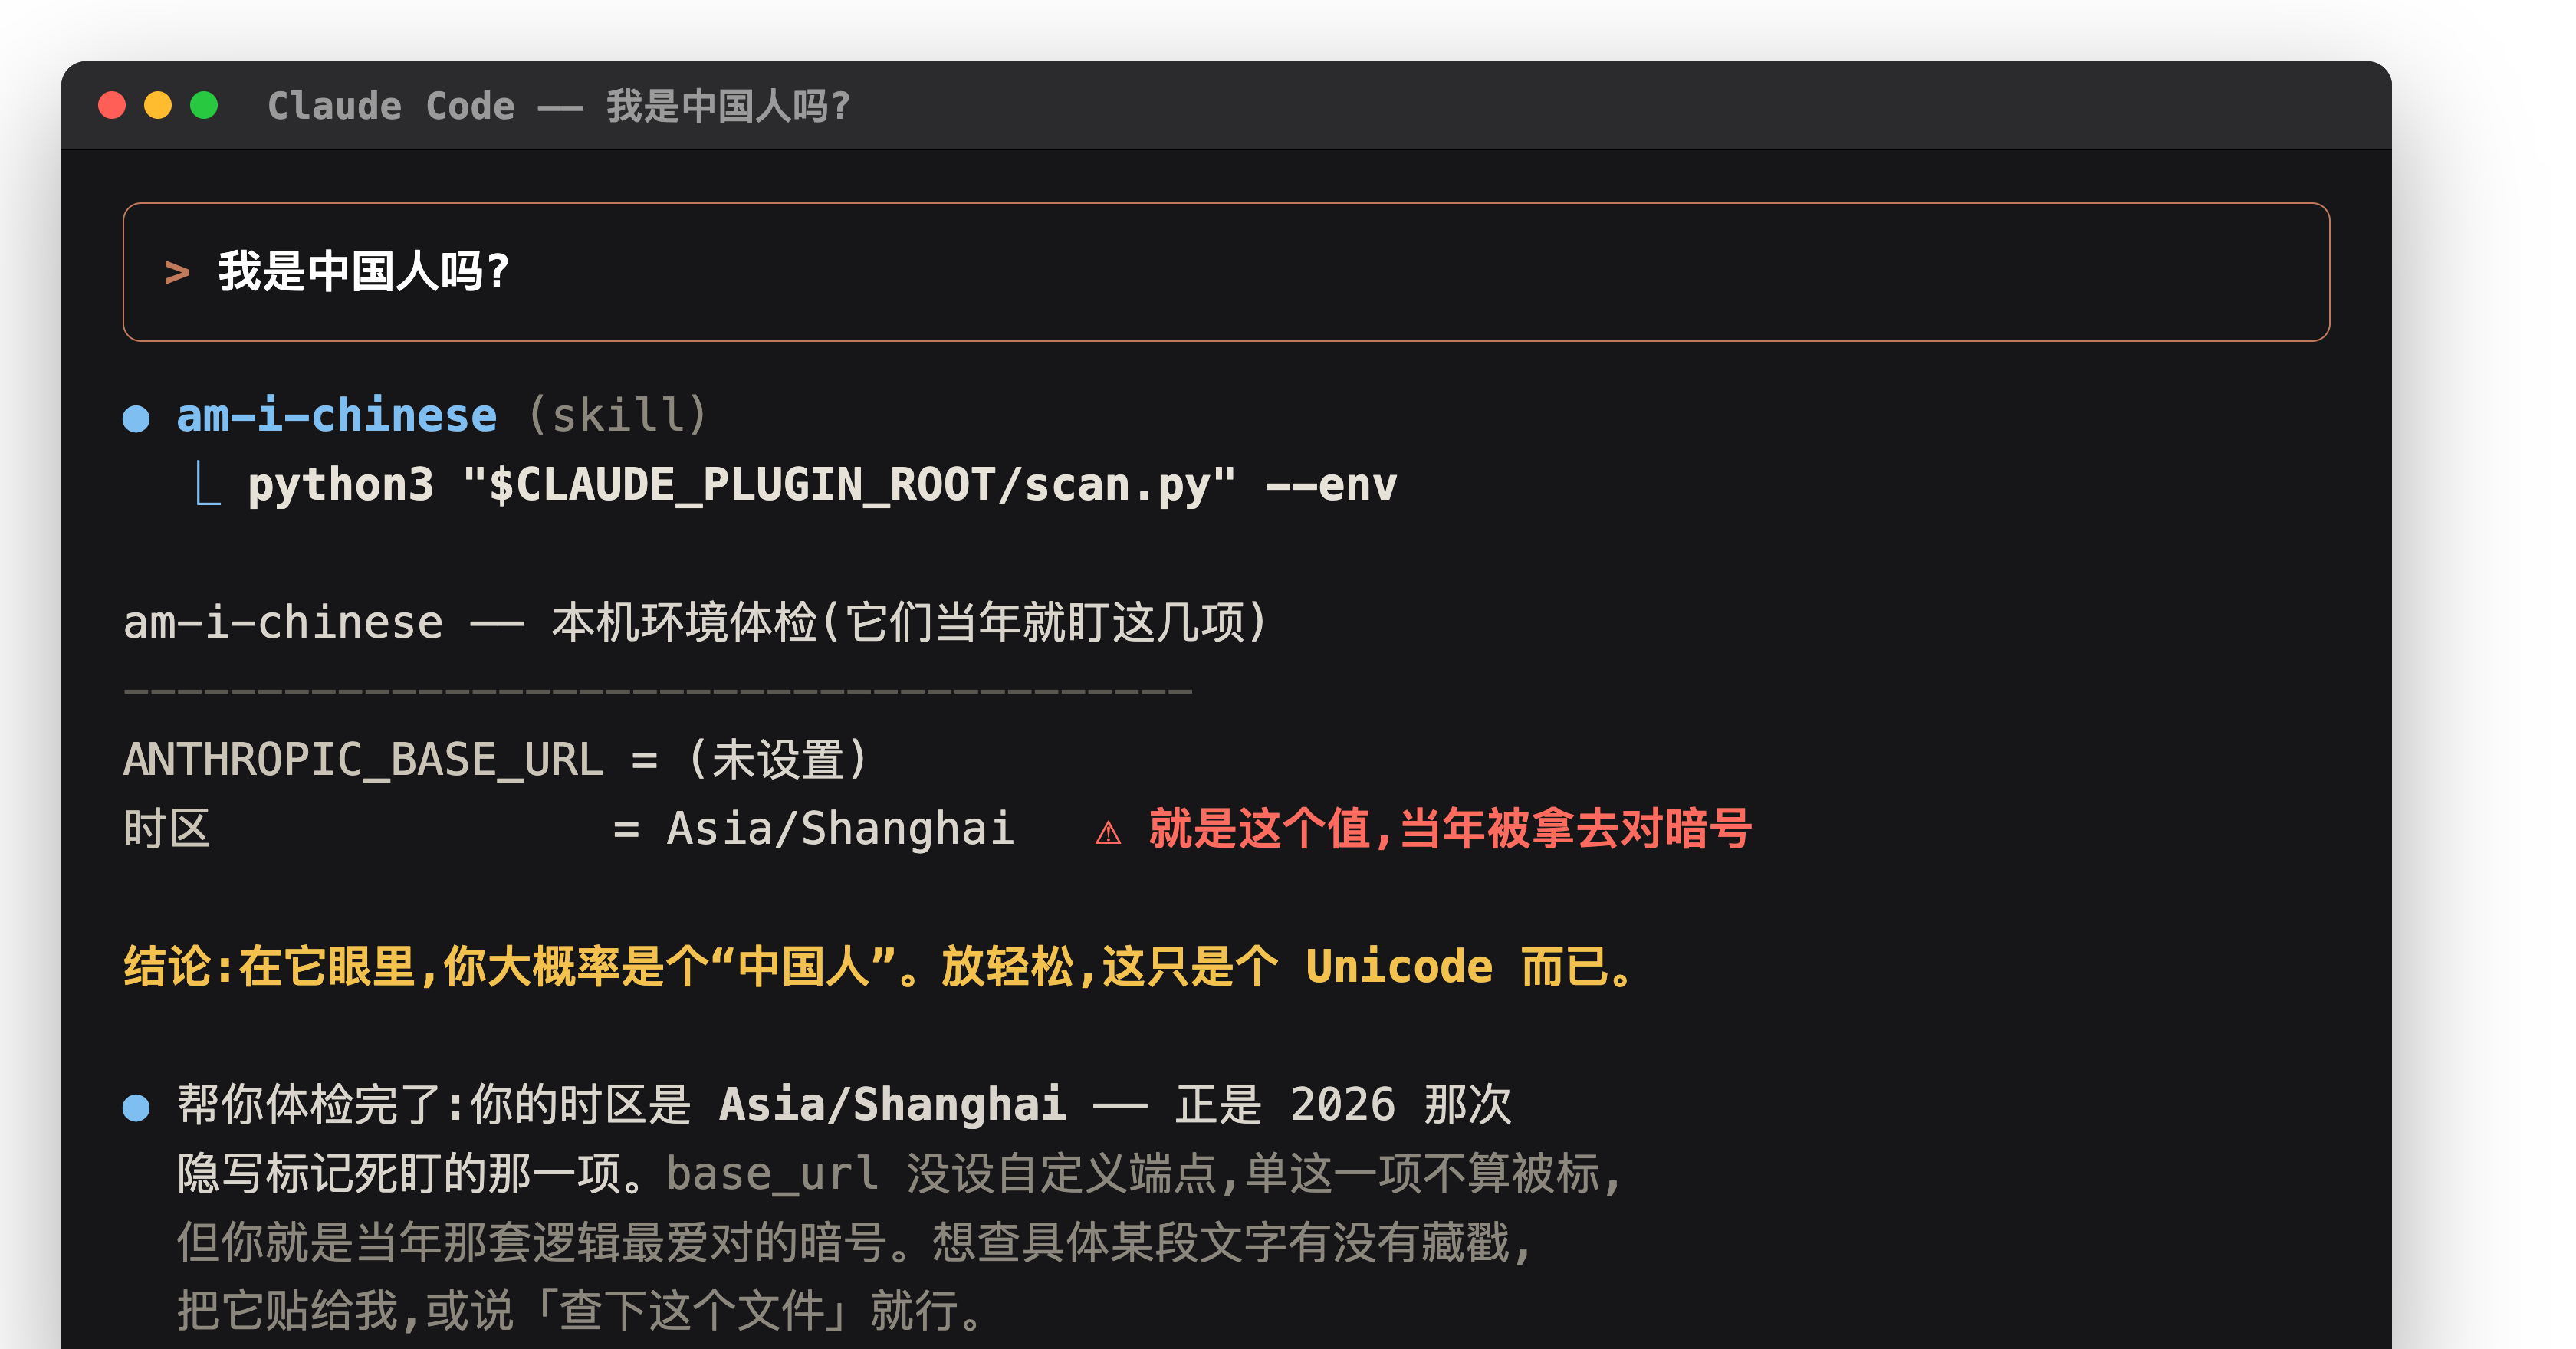
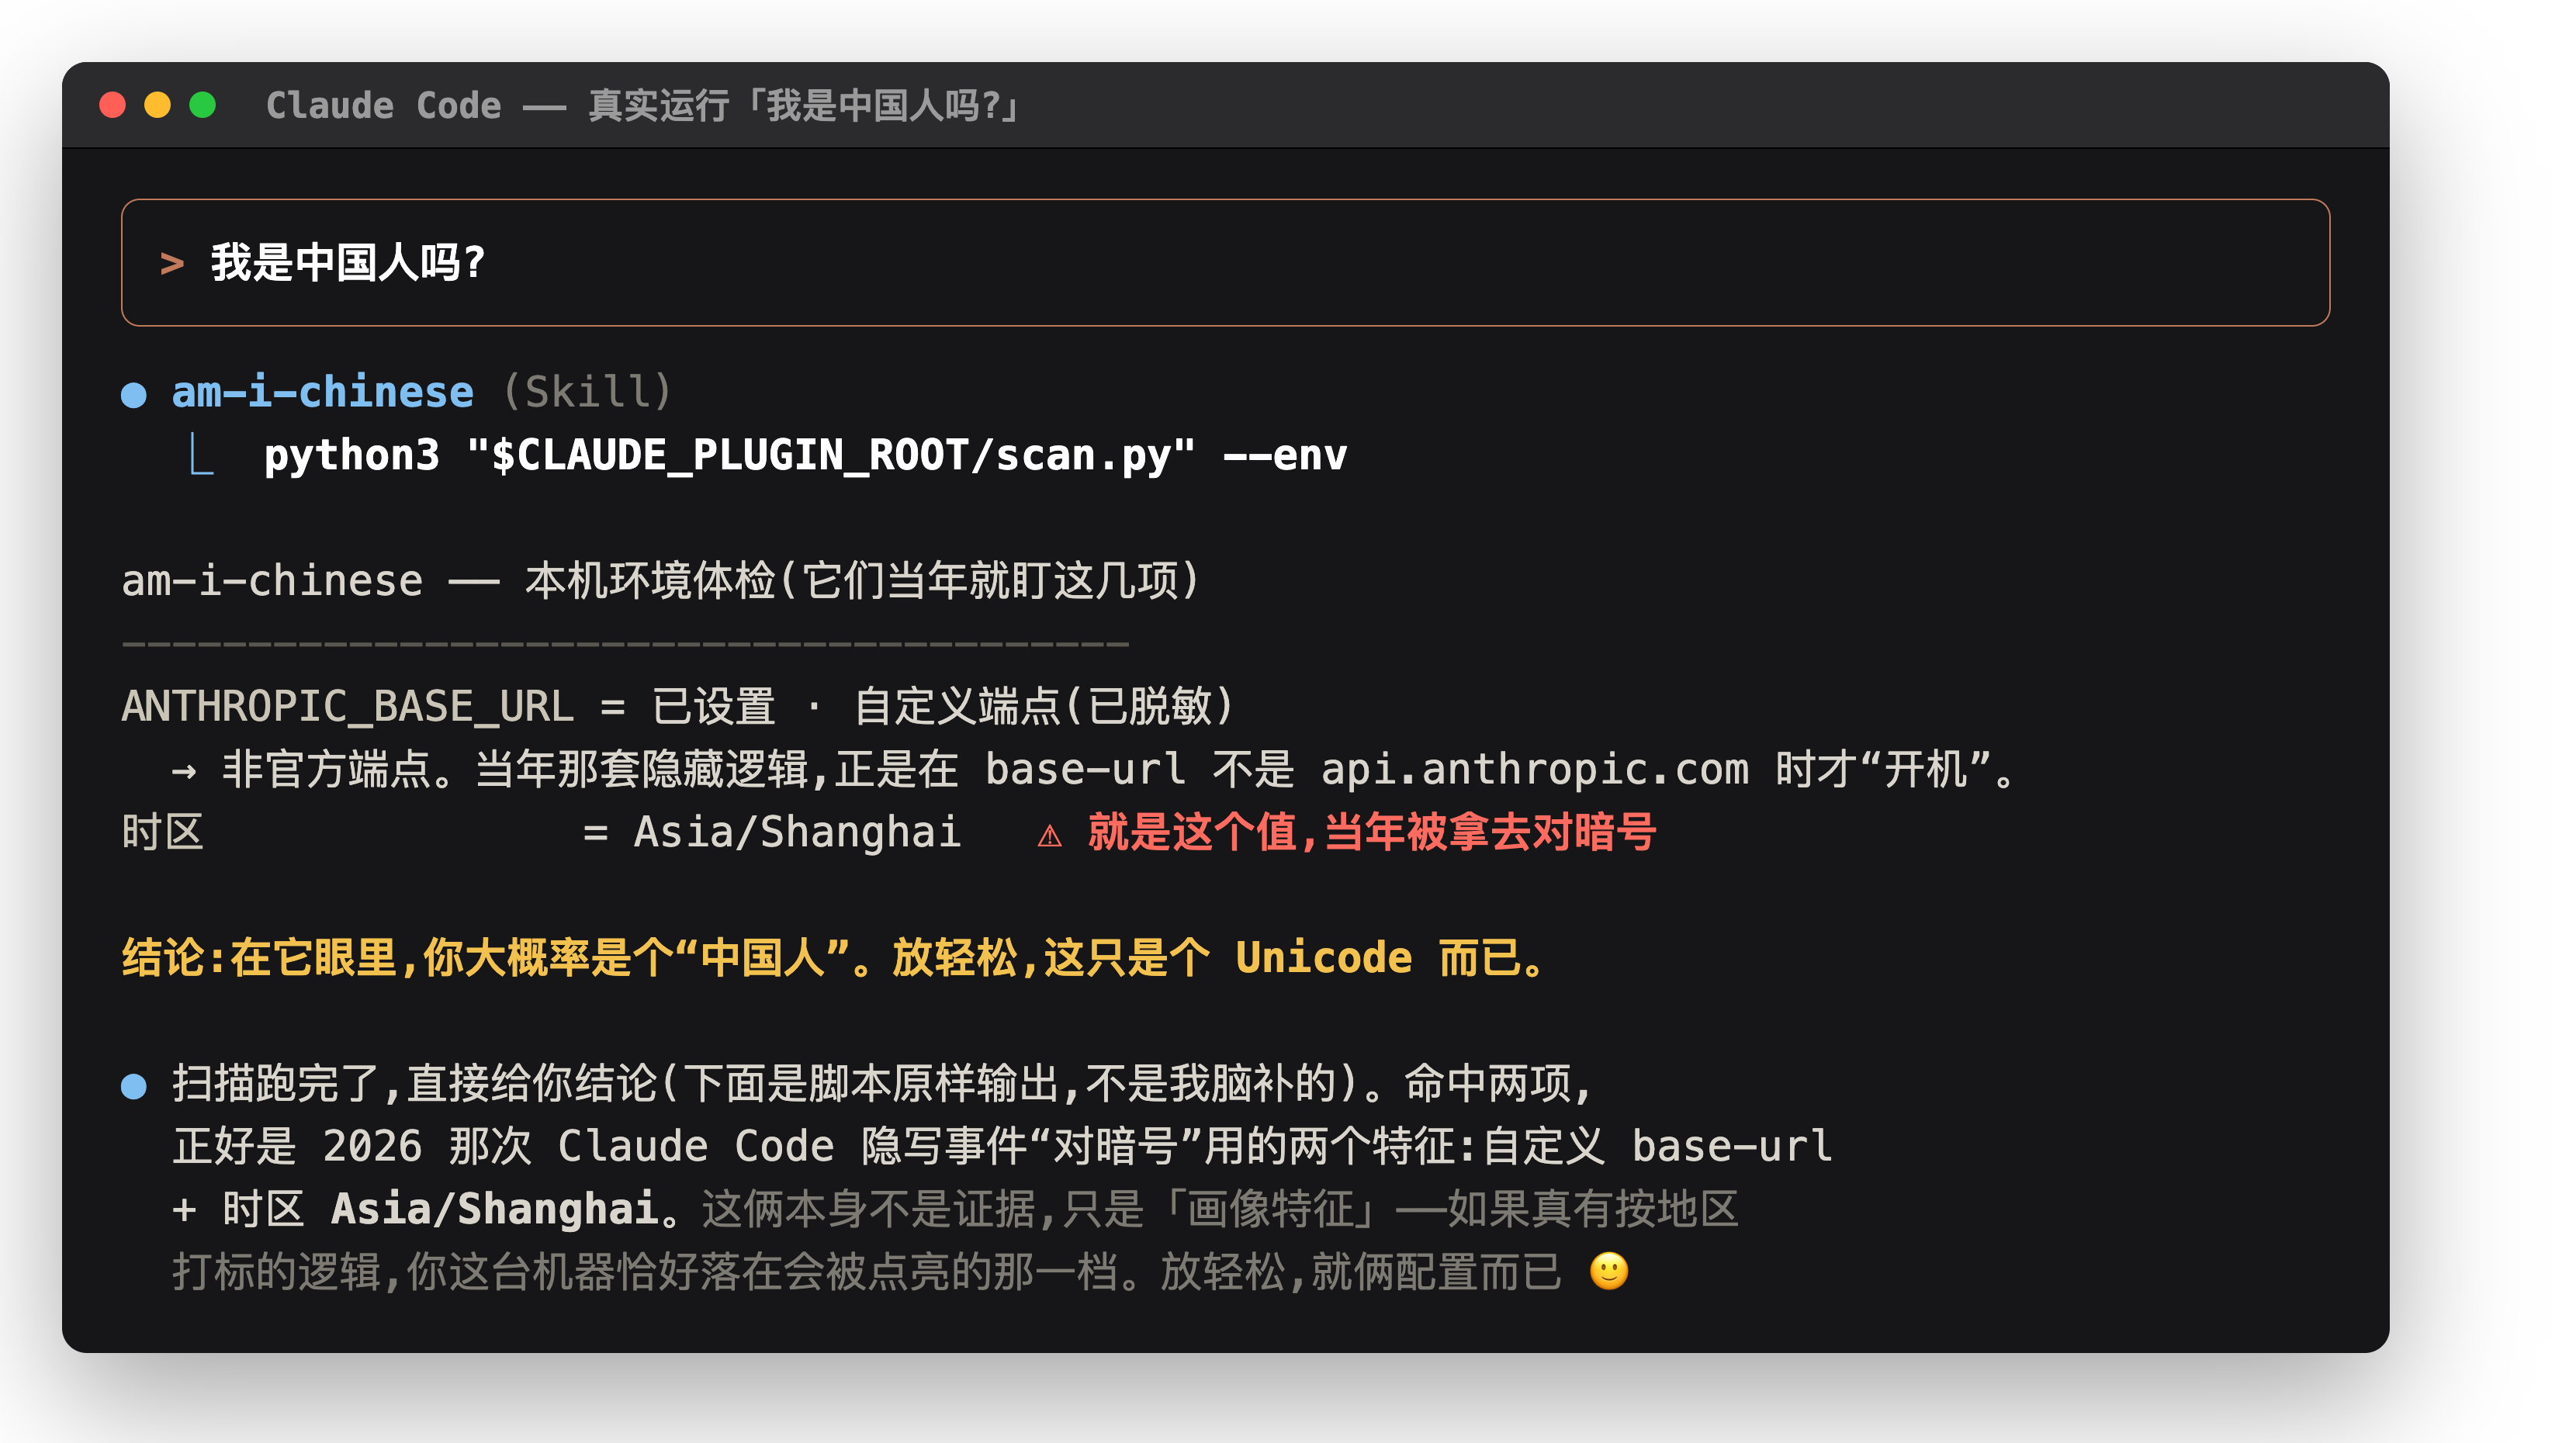
README 全中文 + 换成真实运行的截图
- README 改写为中文
- 截图替换为真实产物:真的跑了 claude plugin marketplace add/install
  (含 HTTPS 克隆等真实细节)+ 真的在 Claude Code 里问「我是中国人吗?」
  自动唤起 skill、跑 scan.py --env 的真实输出
- 说明 --env 默认脱敏端点(--show-endpoint 看全)

Changed region(s): [[0.0, 0.25, 0.9307, 1.0], [0.031, 0.0312, 0.4033, 0.0938], [0.062, 0.1562, 0.2172, 0.2188]]

diff --git a/README.md b/README.md
@@ -1,109 +1,106 @@
 # 中国人 · Am I Chinese?
 
-**plugin: `am-i-chinese`** — the defensive counterpart to [`isChinaUser`](https://github.com/yArna/isChinaUser):
-one asks "does this browser look Chinese?", this asks "did my AI agent secretly tag me as one?"
+**插件名:`am-i-chinese`** —— [`isChinaUser`](https://github.com/yArna/isChinaUser) 的防守方版本:
+那个问「这个浏览器看起来像中国人吗?」,这个问「我的 AI 是不是背着我,把我标成了中国人?」
 
-A tiny, zero-dependency **hidden-text auditor** for AI coding agents, packaged as a
-Claude Code plugin. Install it, then just ask your agent **「我是中国人吗?」**
+一个零依赖的**隐藏文字审计器**,打包成 Claude Code 插件。装好之后,直接问你的 agent 一句 **「我是中国人吗?」** 就行。
 
-It scans any text/prompt/code for the tricks that are invisible or pixel-identical to
-normal characters:
+它会扫描任意文字 / prompt / 代码里那些**肉眼看不见、或跟正常字符长得一模一样**的花招:
 
-- **zero-width** characters (data hiding, token splitting)
-- **bidirectional controls** — Trojan Source source-code reordering
-- the **Unicode Tags block** — invisible ASCII smuggling / prompt injection
-- **homoglyph** apostrophes & mixed-script identifiers (Cyrillic `а` in `pаssword`)
-- the **region-fingerprint tells** from the 2026 Claude Code steganography incident:
-  a non-ASCII apostrophe + a `-`→`/` date-separator swap, keyed on the
-  `Asia/Shanghai` / `Asia/Urumqi` timezone.
+- **零宽字符**(藏数据、把 token 从中间劈开)
+- **双向控制符** —— Trojan Source 源码顺序调包攻击
+- **Unicode Tags 区块** —— 隐形 ASCII 走私 / prompt 注入
+- **同形字**:山寨撇号、混血标识符(`pаssword` 里掺了西里尔字母 `а`)
+- 2026 年 Claude Code 隐写事件里那套**地区指纹暗号**:非 ASCII 撇号 + 日期分隔符
+  `-`→`/` 调包,以 `Asia/Shanghai` / `Asia/Urumqi` 时区为触发条件。
 
-The detection is a deterministic Python script — the LLM never has to (and never should)
-eyeball invisible characters itself.
+检测由一个确定性的 Python 脚本完成 —— **LLM 永远不需要(也不应该)自己用肉眼去看那些隐形字符**。
 
 ---
 
-## Install (Claude Code)
+## 安装(Claude Code)
 
-Two steps: **add the marketplace, then install the plugin.**
+两步:**先加市场,再装插件。**
 
 ```text
 /plugin marketplace add mana-am/am-i-chinese
 /plugin install am-i-chinese@mana
 ```
 
-![install](assets/screenshot-install.png)
+![安装](assets/screenshot-install.png)
 
-`/plugin marketplace add mana-am/am-i-chinese` registers this repo as a plugin
-marketplace named `mana`; `/plugin install am-i-chinese@mana` installs the skill from it.
-Later, refresh with `/plugin marketplace update mana`.
+`/plugin marketplace add mana-am/am-i-chinese` 把本仓库注册成一个名为 `mana` 的插件市场;
+`/plugin install am-i-chinese@mana` 从市场里把这个 skill 装上。以后想更新:`/plugin marketplace update mana`。
 
-## Use
+> 上图是**真实安装**的终端输出(真的跑了一遍 `claude plugin` 命令,连「SSH 没配、改用 HTTPS 克隆」这种真实细节都在)。
 
-Just ask Claude Code in plain language — the skill auto-triggers:
+## 使用
+
+装好后,直接用大白话问 Claude Code,skill 会自动触发:
 
 ```text
 > 我是中国人吗?
 ```
 
-…or run it explicitly with the slash command `/am-i-chinese`. It checks your
-environment (base-url / timezone / proxies), and can scan any pasted text, file, or
-whole project for hidden characters.
+……或者显式敲斜杠命令 `/am-i-chinese`。它会体检你的环境(端点 / 时区 / 代理),
+也能扫任意粘贴的文字、指定文件、或整个项目里的隐藏字符。
 
-![usage](assets/screenshot-usage.png)
+![使用](assets/screenshot-usage.png)
 
-Under the hood it just runs a stdlib-only Python script — exit `0` clean · `1` findings ·
-`2` error, so you can also wire it straight into CI or a pre-commit hook.
+> 上图是**真实运行**的输出:安装后的 skill 被 `我是中国人吗?` 自动唤起,跑了 `scan.py --env`,
+> 给出真实结论。为避免截图泄露自己的私有端点,`--env` **默认对 `ANTHROPIC_BASE_URL` 脱敏**
+> (只报「是否自定义端点」,不打印完整 URL);本地想看全的加 `--show-endpoint`。
+
+底层就是一个只用标准库的 Python 脚本 —— 退出码 `0` 干净 · `1` 有发现 · `2` 出错,
+所以也能直接塞进 CI 或 pre-commit 钩子。
 
 ---
 
-## Install on other coding agents
+## 装到其它编程 agent 上
 
-The engine is a single file — `scan.py` (stdlib Python 3.8+). Drop it in the repo and
-point your agent's rule/skill system at it.
+引擎就一个文件 —— `scan.py`(标准库,Python 3.8+)。丢进仓库,让你的 agent 的
+规则 / 技能系统指向它即可。
 
 ### Cursor
-Cursor loads Markdown **rules** from `.cursor/rules/`. Add a rule that points at the script:
+Cursor 从 `.cursor/rules/` 加载 Markdown **规则**。加一条指向脚本的规则:
 ```bash
 mkdir -p .cursor/rules tools/am-i-chinese
 cp plugins/am-i-chinese/scan.py tools/am-i-chinese/
 cat > .cursor/rules/am-i-chinese.mdc <<'EOF'
 ---
-description: Audit text/code for hidden-Unicode & homoglyph steganography.
+description: 审计文字/代码里的隐藏 Unicode 与同形字隐写。
 alwaysApply: false
 ---
-When the user asks to check for hidden/invisible characters, tampering, prompt
-injection via unicode, or region fingerprinting, run:
+当用户要求检查隐藏 / 不可见字符、篡改、通过 unicode 做的 prompt 注入,或地区指纹时,运行:
   python3 tools/am-i-chinese/scan.py <path|->
-Quote the script output; never infer codepoints yourself.
+引用脚本原样输出;绝不自己臆断码点。
 EOF
 ```
 
 ### Windsurf
-Same pattern, under `.windsurf/rules/`:
+同样的套路,放在 `.windsurf/rules/`:
 ```bash
 mkdir -p .windsurf/rules tools/am-i-chinese
 cp plugins/am-i-chinese/scan.py tools/am-i-chinese/
-# create .windsurf/rules/am-i-chinese.md with the same instruction block as above
+# 在 .windsurf/rules/am-i-chinese.md 里写上和上面一样的指令块
 ```
 
 ### Cline / Roo Code
-These read project **custom instructions** (`.clinerules` / `.roo/rules/`). Copy `scan.py`
-into the repo and add a rule line:
+它们读项目的**自定义指令**(`.clinerules` / `.roo/rules/`)。把 `scan.py` 拷进仓库,加一行规则:
 ```
-For hidden-character / tampering / fingerprint audits, run `python3 scan.py <path>` and report its output verbatim.
+做隐藏字符 / 篡改 / 指纹审计时,运行 `python3 scan.py <path>` 并原样汇报输出。
 ```
 
-### Codex CLI / Gemini CLI / any `AGENTS.md`-based agent
-Copy `scan.py` into the repo and add to `AGENTS.md`:
+### Codex CLI / Gemini CLI / 任何基于 `AGENTS.md` 的 agent
+把 `scan.py` 拷进仓库,在 `AGENTS.md` 里加:
 ```markdown
-## Hidden-text audits
-Run `python3 scan.py <path|->` to check any text/code for hidden-Unicode or homoglyph
-steganography. Report the script's output; exit code 1 means findings.
+## 隐藏文字审计
+运行 `python3 scan.py <path|->` 检查任意文字/代码里的隐藏 Unicode 或同形字隐写。
+原样汇报脚本输出;退出码 1 表示有发现。
 ```
 
-### Any agent / no skill system
-It's just a script. Keep `scan.py` in the repo and run it from the terminal or a
-pre-commit hook:
+### 任何 agent / 没有技能系统
+它就是个脚本。把 `scan.py` 留在仓库里,从终端或 pre-commit 钩子跑:
 ```yaml
 # .pre-commit-config.yaml
 - repo: local
@@ -117,28 +114,26 @@ pre-commit hook:
 
 ---
 
-## Background
+## 来龙去脉
 
-In June 2026, reverse-engineering of Claude Code revealed a covert marker system: when the
-client detected a non-official `ANTHROPIC_BASE_URL` (matched against a ~147-entry proxy
-blacklist) and an `Asia/Shanghai` / `Asia/Urumqi` system timezone, it steganographically
-tagged outgoing requests by (a) swapping the date separator `2026-06-30` → `2026/06/30` and
-(b) replacing the ASCII apostrophe `U+0027` with a visually identical Unicode variant — a
-2–3 bit region classifier hidden inside the system prompt, invisible even to a user reading
-that prompt. Anthropic said it was an anti-resale/anti-distillation experiment and rolled it
-back. `am-i-chinese` detects that class of marker, and the broader family of invisible-Unicode
-tampering, in any text an agent touches.
+2026 年 6 月,有人逆向 Claude Code,扒出一套隐蔽的打标机制:当客户端检测到
+`ANTHROPIC_BASE_URL` 不是官方地址(比对一份约 147 条的代理黑名单),且系统时区为
+`Asia/Shanghai` / `Asia/Urumqi` 时,它会用隐写术给发出去的请求盖戳 ——
+(a) 把日期分隔符 `2026-06-30` 换成 `2026/06/30`,(b) 把 ASCII 撇号 `U+0027` 换成一个
+长得一模一样的 Unicode 变体 —— 相当于在 system prompt 里缝进一个 2~3 bit 的地区分类器,
+连读这段 prompt 的用户都看不见。Anthropic 称这是一次防转售 / 防蒸馏的实验并已回滚。
+`am-i-chinese` 就是用来检测这一类标记,以及更广义的隐形 Unicode 篡改 —— 只要是 agent 碰过的文字。
 
-## Repo layout
+## 仓库结构
 
 ```text
-.claude-plugin/marketplace.json          # marketplace catalog (name: mana)
+.claude-plugin/marketplace.json          # 市场目录(名为 mana)
 plugins/am-i-chinese/
-  ├── .claude-plugin/plugin.json         # plugin manifest
-  ├── SKILL.md                           # skill instructions (model-invoked + /am-i-chinese)
-  └── scan.py                            # the zero-dependency detection engine
+  ├── .claude-plugin/plugin.json         # 插件清单
+  ├── SKILL.md                           # 技能说明(模型自动触发 + /am-i-chinese 斜杠命令)
+  └── scan.py                            # 零依赖检测引擎
 ```
 
-## License
+## 许可
 
-Public domain / CC0 — copy, modify, ship it anywhere.
+公有领域 / CC0 —— 随便抄、随便改、随便用到任何地方。